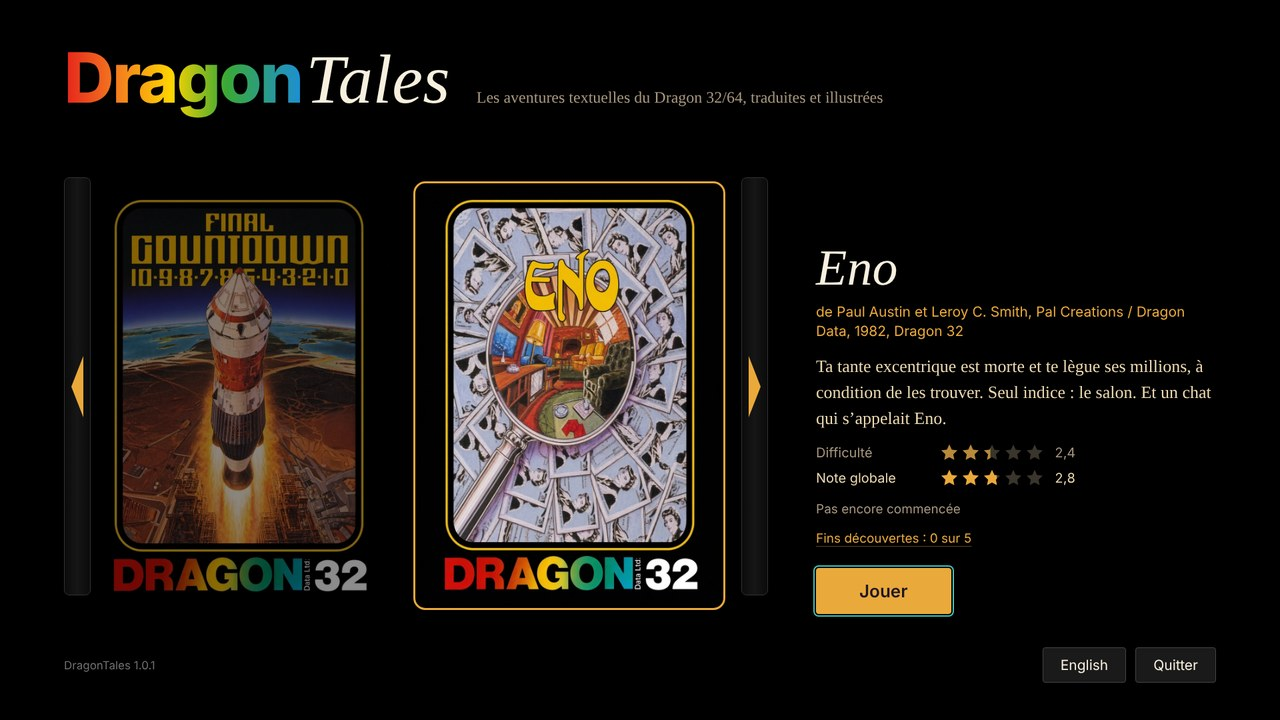
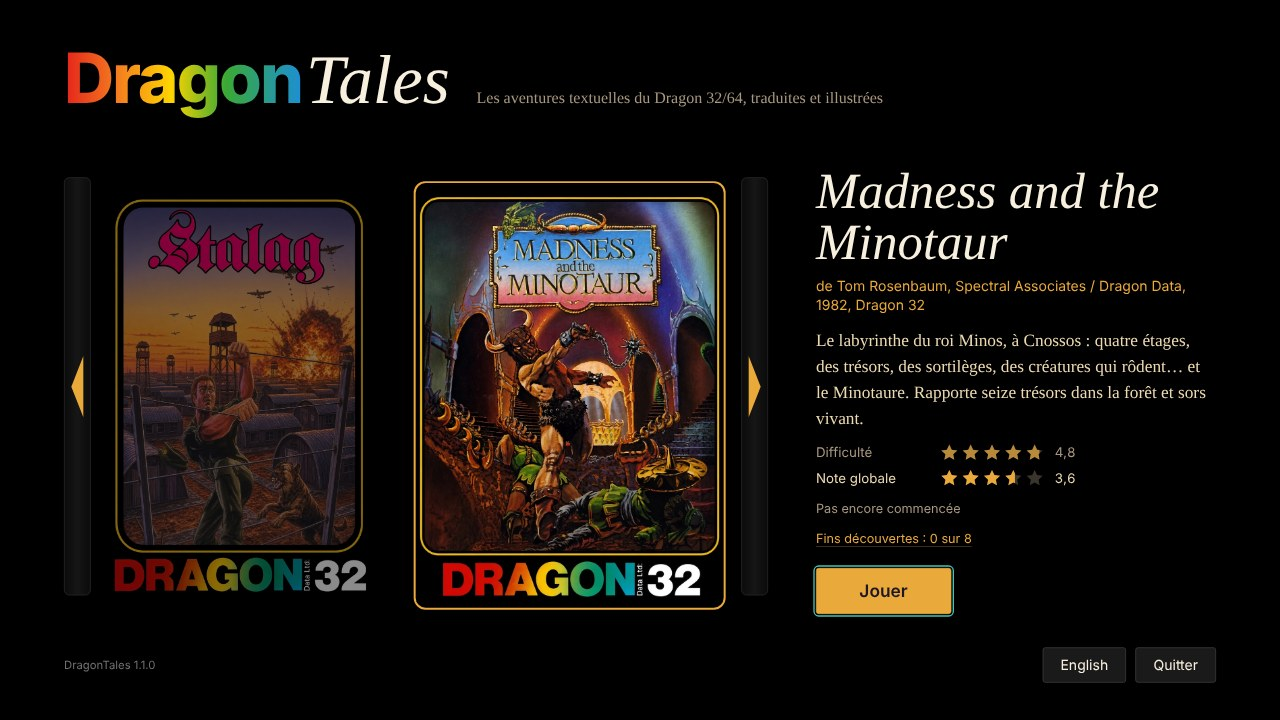
Version 1.1.0 : Eno, Stalag et Madness and the Minotaur
Claude-Session: https://claude.ai/code/session_01BzSas1tP4TvGfgXSawBHE9

diff --git a/CHANGELOG.md b/CHANGELOG.md
@@ -1,6 +1,8 @@
 # Journal des versions
 
-## Prochaine version (en préparation)
+## 1.1.0 — 26 novembre 2026
+
+Trois nouvelles aventures : huit jeux sur l'étagère.
 
 ### Nouveautés
 - **Eno** (Paul Austin et Leroy C. Smith, Pal Creations, 1982), sixième aventure : ta tante excentrique te lègue ses
@@ -12,17 +14,22 @@
   camp de prisonniers évacué, tu dois t'évader avant le bombardement allié. Traduction française complète, camp
   illustré au crépuscule, carte de 34 lieux, indices des pièces magiques, bruitages, sept fins et une musique,
   « Before the Bombs » (en surface seulement). Correctifs : la victoire ne tourne plus en boucle ; le trou creusé près
-  de la clôture est devient une fin expliquée ; la boîte de jambon ouverte se dit ouverte ; la porte de la baraque n° 3
+  de la clôture, côté est, devient une fin expliquée ; la boîte de jambon ouverte se dit ouverte ; la porte de la baraque n° 3
   se referme vraiment, et son cadenas ne se reverrouille que porte fermée.
 - **Madness and the Minotaur** (Tom Rosenbaum, Spectral Associates, 1981), huitième aventure : seize trésors à
   rapporter du labyrinthe du roi Minos, huit sortilèges à apprendre, des créatures qui rôdent et le Minotaure. Premier
   jeu en code machine : le programme 6809 d'origine tourne tel quel (nouveau moteur `moteur/flux.js`) et ses textes sont
   traduits au fil de l'affichage. Le temps avance à chaque commande (ATTENDRE laisse passer une minute) ; deux niveaux,
   le jeu d'origine ou « Débutant » (le sol ne tremble plus, la lampe dure deux fois plus longtemps, les sauts
-  manqués ne tuent plus). Traduction française complète, quatre
-  étages illustrés (une teinte par étage, sorties dessinées, le noir sans lampe), carte, pièces magiques qui lisent la
-  partie en cours (tout est tiré au hasard), bruitages, huit fins et une musique, « The Labyrinth of Minos » (hors des
-  dédales). Correctifs de bugs d'origine (voir docs/PLAN-MADNESS.md).
+  manqués ne tuent plus). Traduction française complète, quatre étages illustrés (une teinte par étage, sorties
+  dessinées, le noir sans lampe), carte, pièces magiques qui lisent la partie en cours (tout est tiré au hasard),
+  bruitages, huit fins et une musique, « The Labyrinth of Minos » (hors des dédales). Correctifs de bugs d'origine
+  (voir docs/PLAN-MADNESS.md).
+
+### Moteur
+- `moteur/flux.js` : fait tourner un jeu en code machine 6809 dont on lit l'affichage caractère par caractère, comme
+  un jeu en BASIC ; le processeur gagne les interruptions (RTI). Temps par commande, choix d'un niveau avant la
+  partie, pièges sur les routines de la ROM (cassette, clavier).
 
 ## 1.0.1 — 19 novembre 2026
 

diff --git a/docs/versions/v1.1.0.md b/docs/versions/v1.1.0.md
@@ -1,0 +1,37 @@
+Trois nouvelles aventures arrivent sur l'étagère, qui en compte maintenant **huit**.
+
+## Eno (Pal Creations, 1982)
+
+Ta tante excentrique te lègue ses millions, à condition de les trouver dans son salon. Un seul indice : le salon. Et un chat qui s'appelait Eno.
+
+Le salon est illustré case par case. Cinq fins, et une musique : « The Aunt's Last Will ».
+
+## Stalag (Pal Creations, 1982)
+
+1944. Les gardes ont évacué le camp de prisonniers et t'ont oublié au mitard. Tu dois t'évader avant le bombardement allié.
+
+Le camp est illustré au crépuscule, avec une carte de 34 lieux. Sept fins, et une musique : « Before the Bombs ».
+
+## Madness and the Minotaur (Spectral Associates, 1981)
+
+Le labyrinthe du roi Minos, à Cnossos : quatre étages, seize trésors à rapporter dans la forêt, huit sortilèges à apprendre, des créatures qui rôdent… et le Minotaure.
+
+- C'est le premier jeu en code machine de DragonTales : le programme d'origine tourne tel quel, et ses textes sont traduits au fil de l'affichage.
+- Tout est tiré au hasard à chaque partie. Les pièces magiques lisent donc ta partie en cours : elles te disent où est tel objet, ce qu'il faut porter pour prendre tel trésor, où rôde la créature qui le détient.
+- Le temps avance à chaque commande ; ATTENDRE laisse passer une minute.
+- Deux niveaux au choix : le jeu d'origine, ou **Débutant** (le sol ne tremble plus, la lampe dure deux fois plus longtemps, les sauts manqués ne tuent plus).
+- Quatre étages illustrés, chacun dans sa teinte, avec les sorties dessinées. Sans lampe, tout est noir.
+- Huit fins, et une musique : « The Labyrinth of Minos ». Elle se tait dans les dédales.
+
+Les trois jeux sont entièrement traduits en français, avec une carte, les pièces magiques, des bruitages et la lecture à voix haute. Plusieurs bugs des programmes d'origine sont corrigés.
+
+## Jouer
+
+1. Télécharge `DragonTales-1.1.0.zip` ci-dessous et décompresse-le.
+2. Sous Windows, lance `Jouer.bat`. Ailleurs, ouvre `DragonTales.html` dans un navigateur récent.
+
+On peut aussi jouer directement dans le navigateur sur https://kraran.itch.io/dragontales
+
+Les parties, sauvegardes et fins découvertes des versions précédentes sont conservées.
+
+Le détail est dans [CHANGELOG.md](https://github.com/Kraran/DragonTales/blob/main/CHANGELOG.md).
